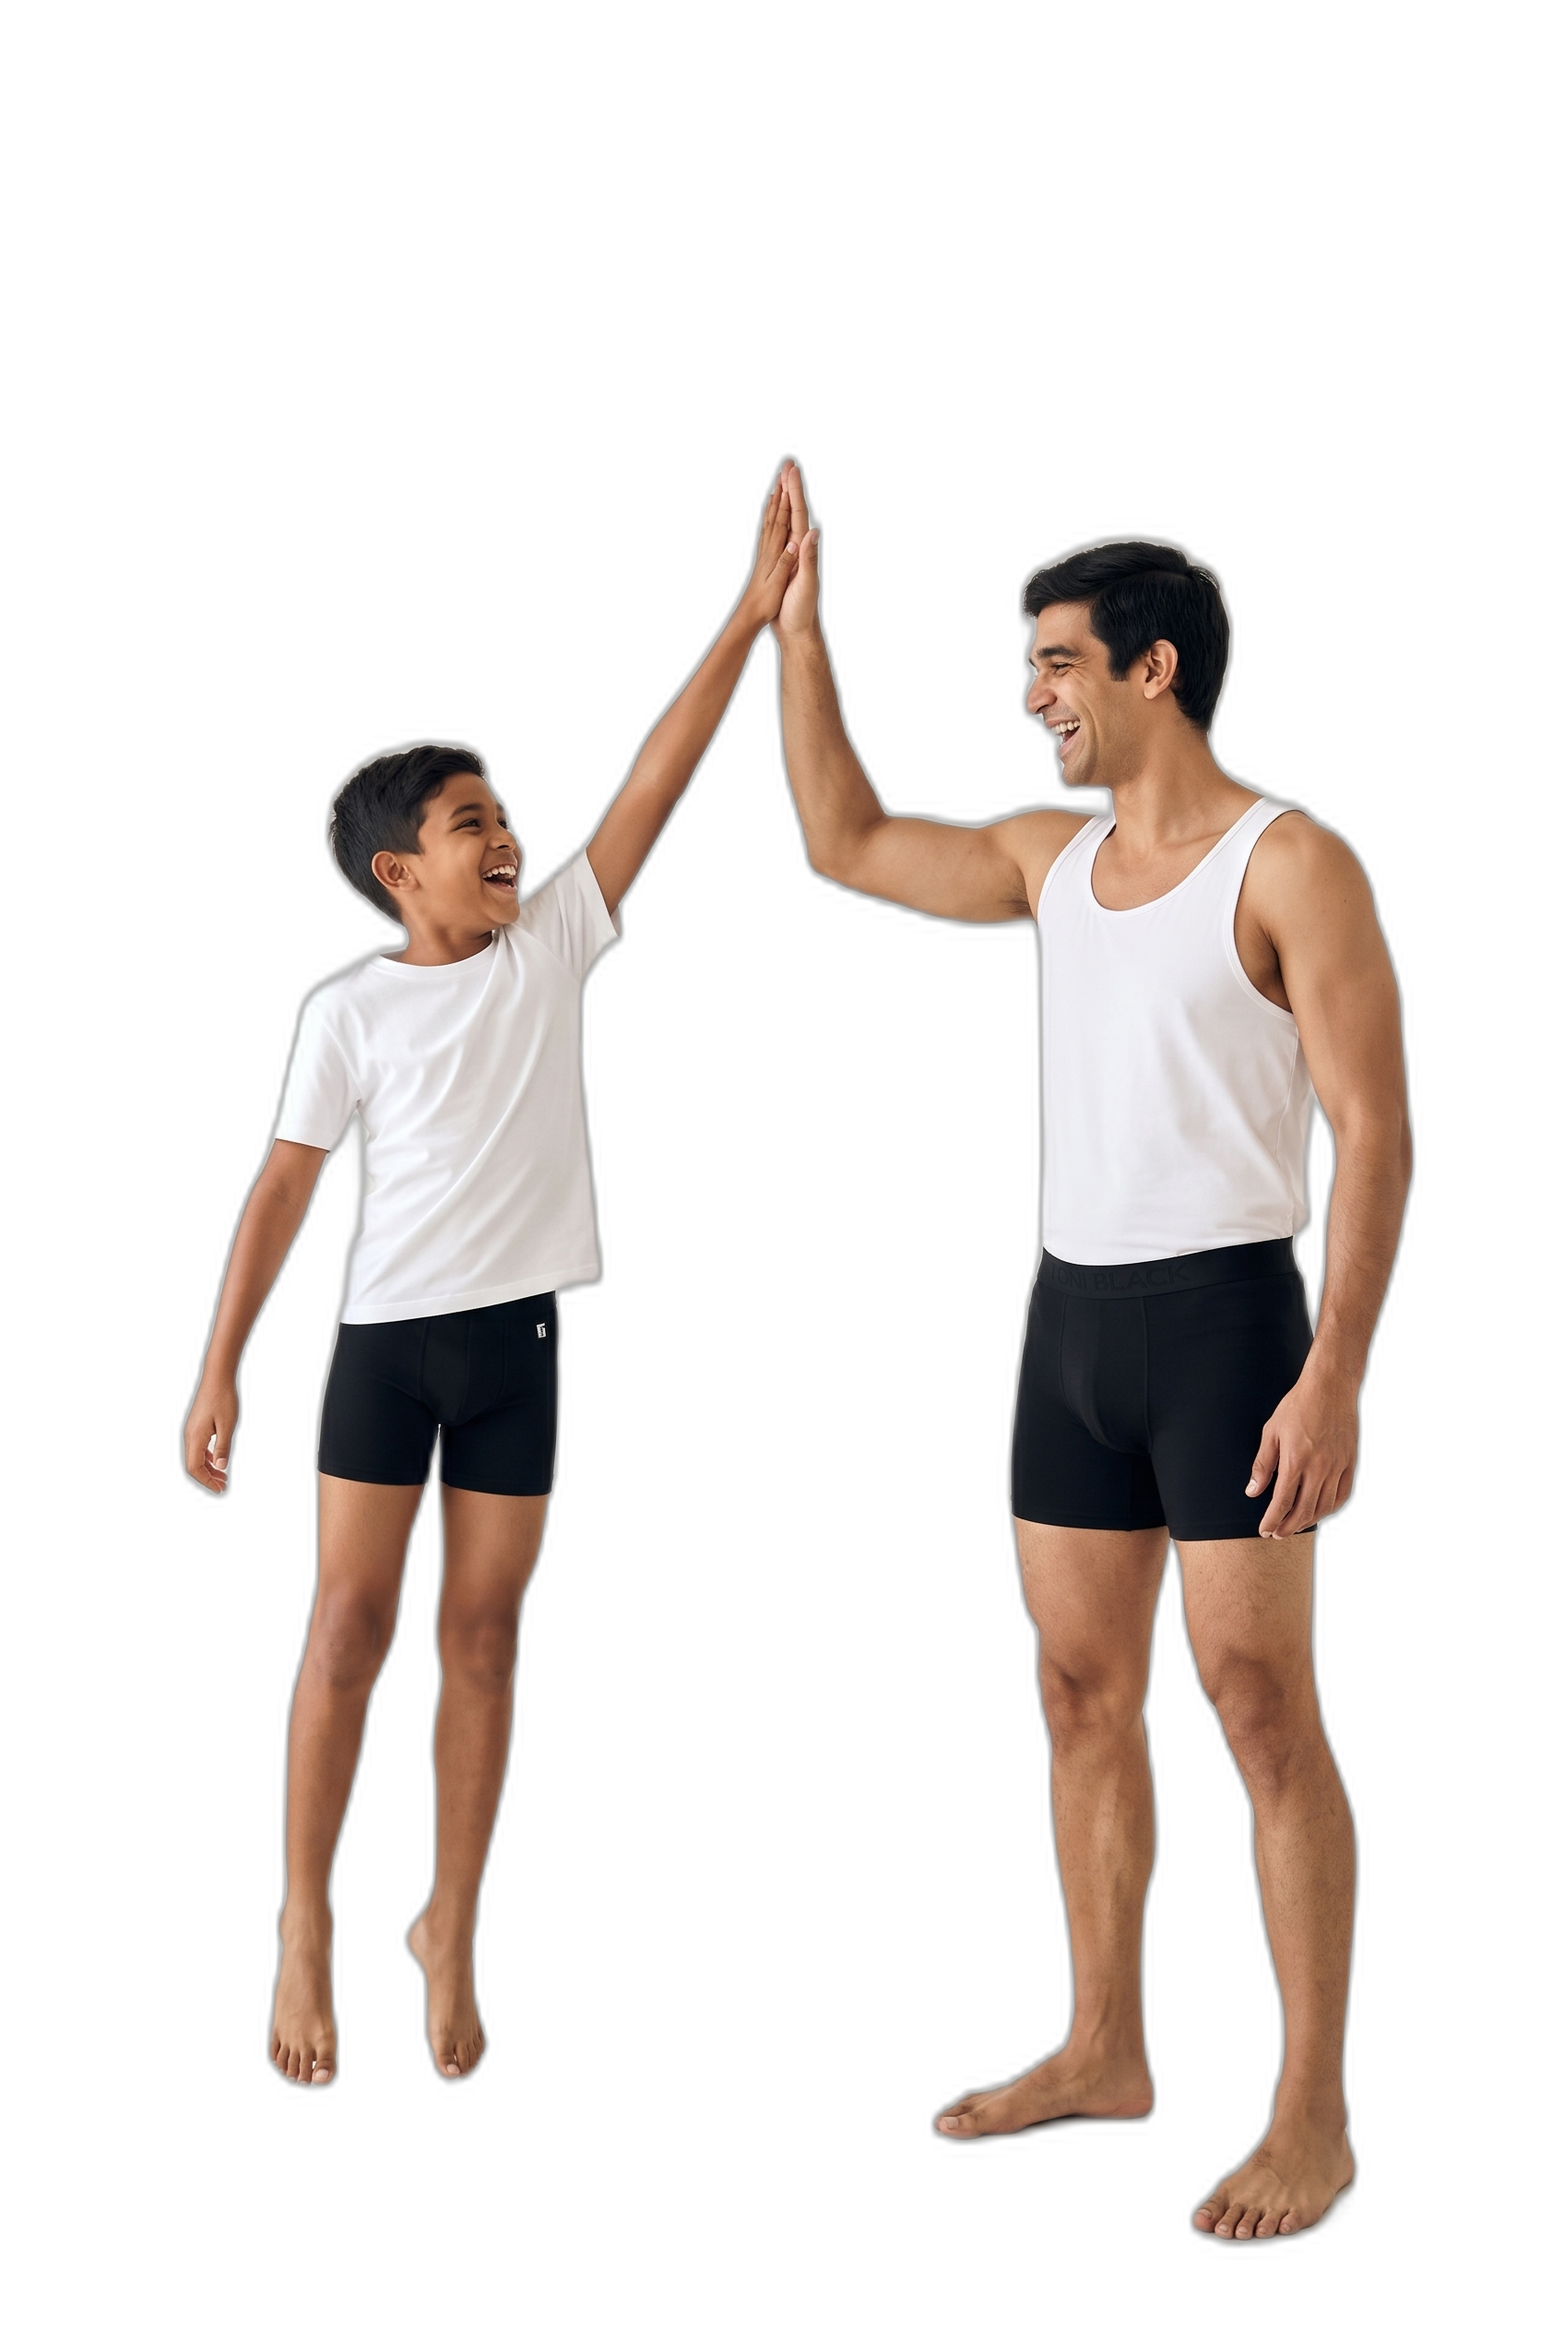
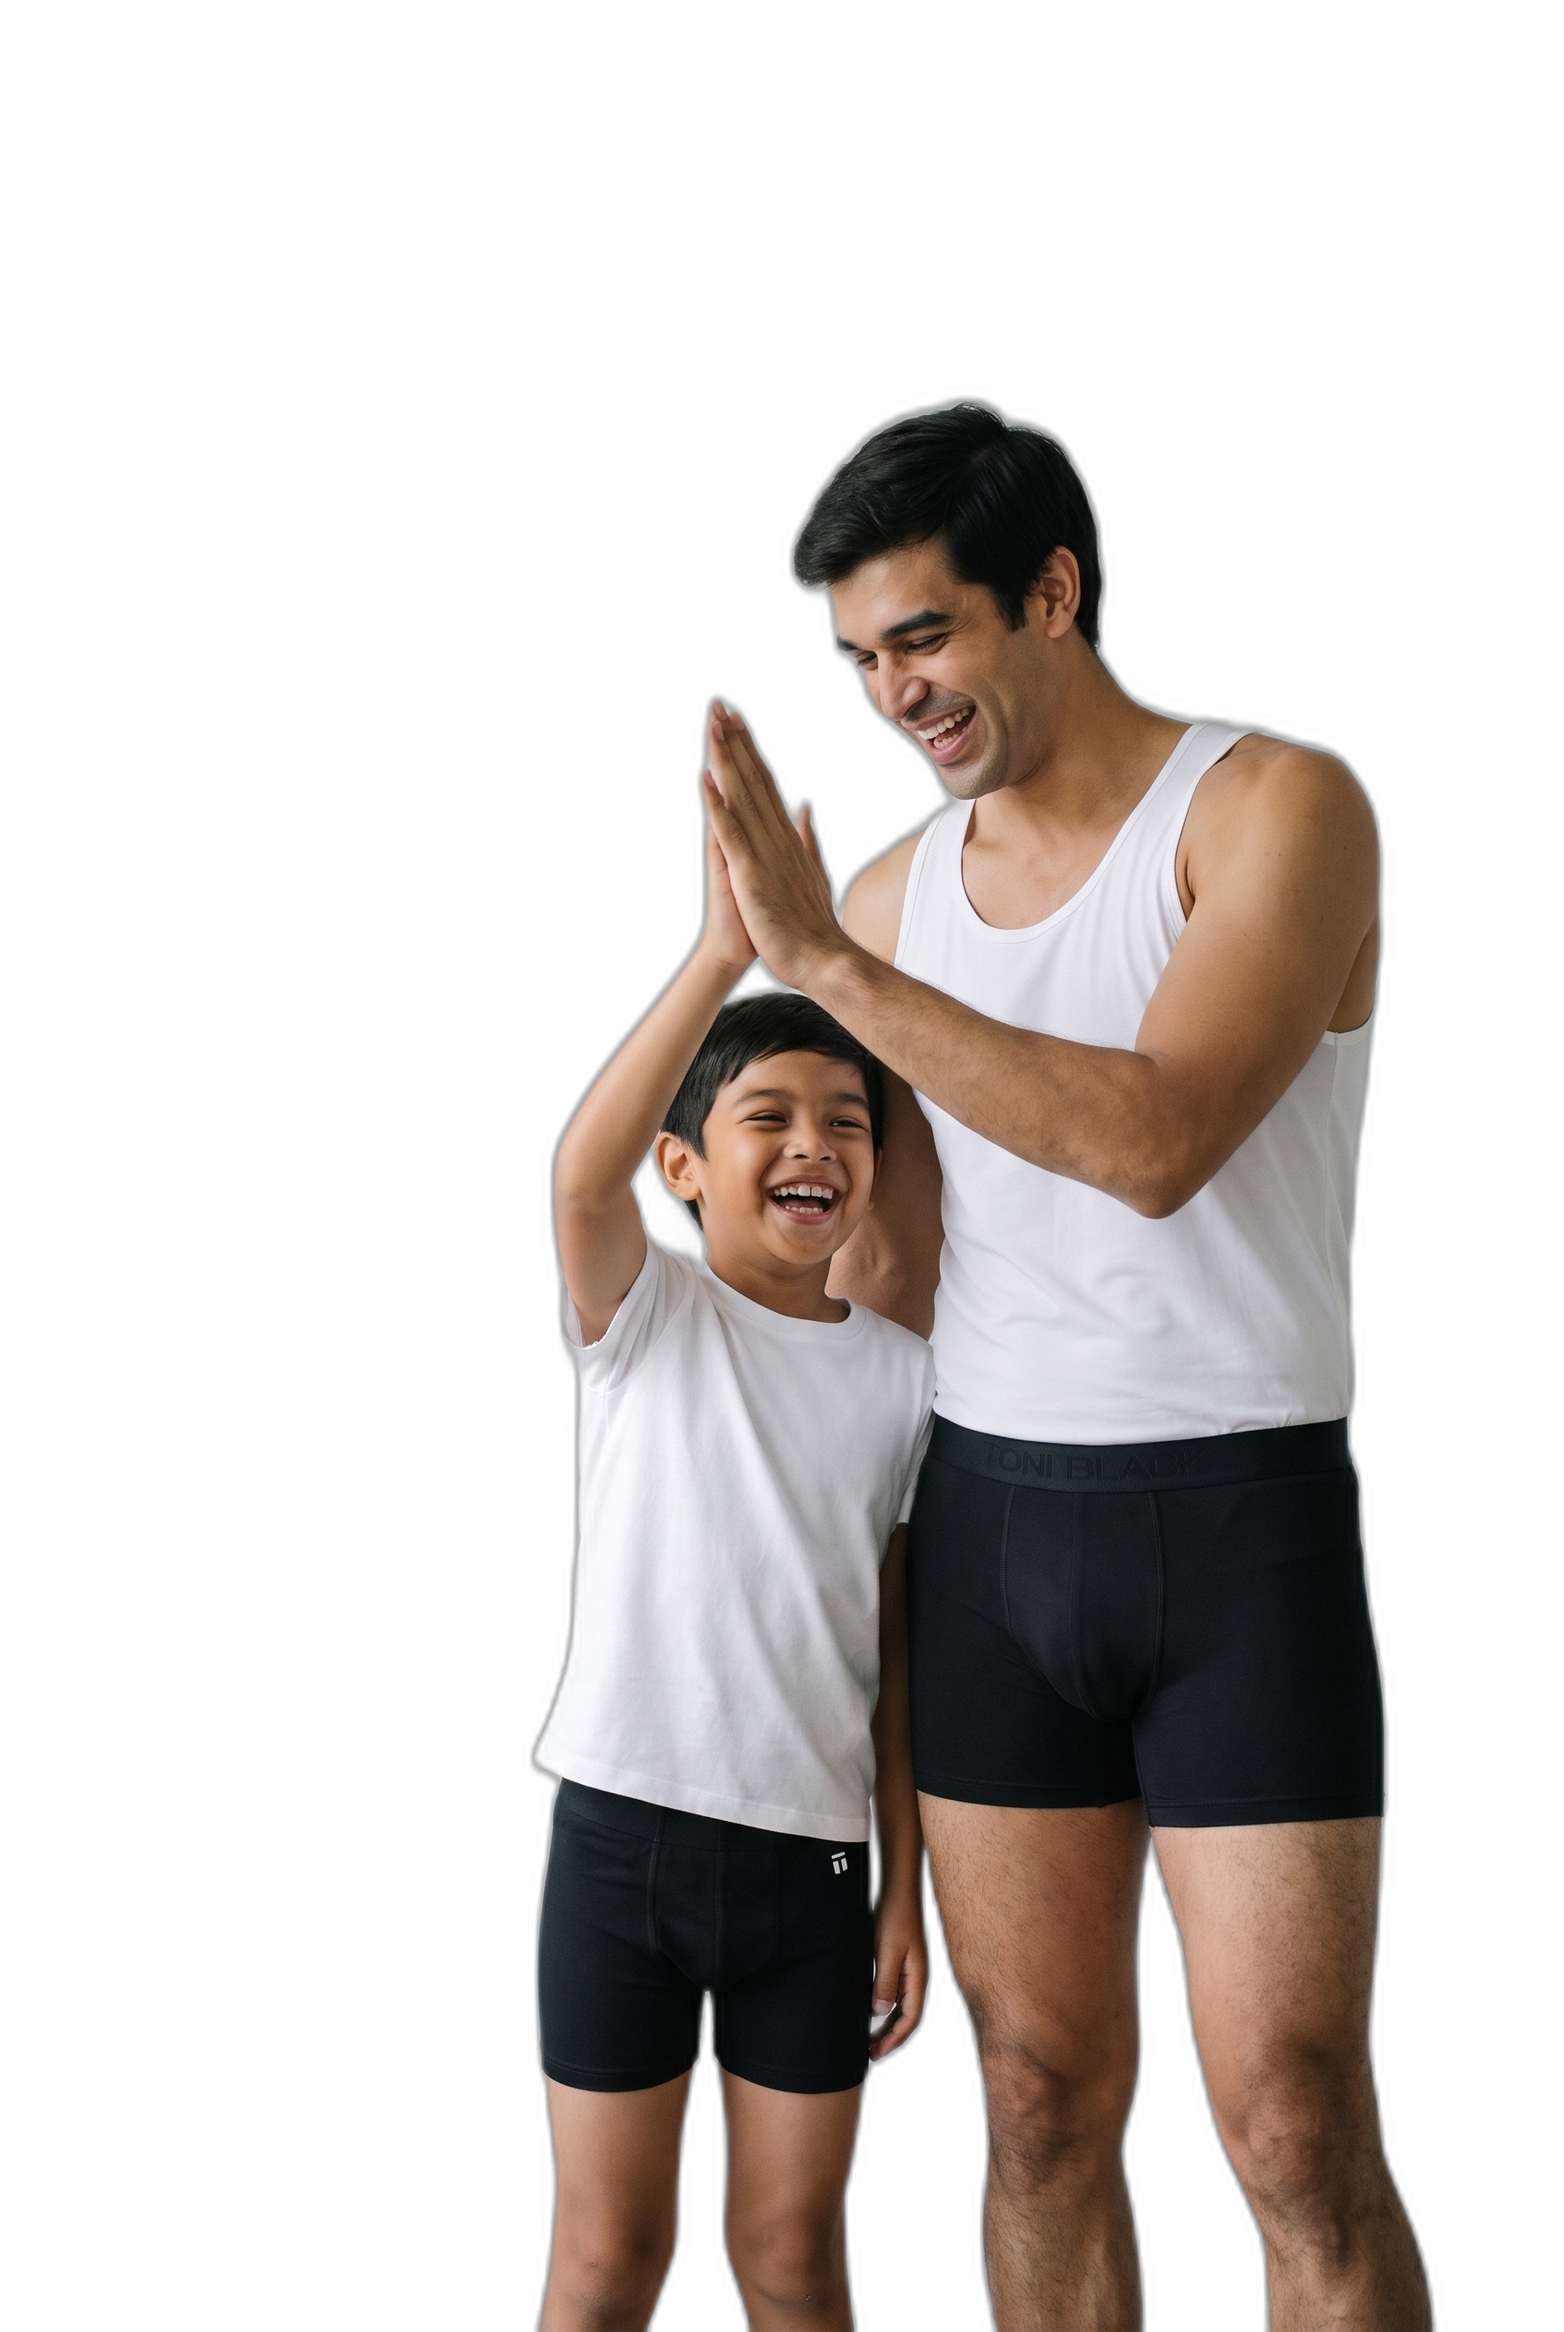
Him and Him v4: compact pair, child proportions, knee framing, plain wall
Claude-Session: https://claude.ai/code/session_01D9RBu3wL2qzNxzBzcGFuRs

diff --git a/banner-him-and-him-toni-black/scripts/compose_himhim5.py b/banner-him-and-him-toni-black/scripts/compose_himhim5.py
@@ -1,0 +1,29 @@
+"""'Made For Him and Him' v4: photo full-bleed (knee framing, plain wall), type in the empty left third."""
+import sys, numpy as np
+from PIL import Image, ImageDraw, ImageFilter
+from scipy.ndimage import binary_dilation
+sys.path.insert(1,"/home/user/Dom-Manipulation/banner-bau-toni-black/scripts")
+from logo import make_logo
+from compose_himhim import tracked, tw, cb, font, fit
+from compose_himhim3 import header, hero, offer
+import grade as G
+C282=(40,40,40)
+def graded(path):
+    im=np.asarray(Image.open(path).convert("RGB")).astype(np.float64); lab=G.srgb_to_lab(im)
+    L=np.clip(lab[...,0]/100,0,1); Lc=np.clip(0.5+(L-0.5)*1.10-0.02,0,1); lab[...,0]=Lc*100; lab[...,1:]*=0.88
+    lab[...,2]-=3.0*np.clip((Lc-0.6)/0.4,0,1); return Image.fromarray(G.lab_to_srgb(lab).astype("uint8"))
+def build(out,W=1080,H=1620,M=65,clear=40,head_y=150,hero_gap=60):
+    src=graded("gen/himhim_d_0.png"); s=max(W/src.width,H/src.height); src=src.resize((int(src.width*s+0.5),int(src.height*s+0.5)),Image.LANCZOS)
+    ox=(src.width-W)//2; oy=(src.height-H)//2; cv=src.crop((ox,oy,ox+W,oy+H)); d=ImageDraw.Draw(cv)
+    a=Image.open("gen/himhim_d_cutout.png").split()[3].resize(src.size,Image.LANCZOS).crop((ox,oy,ox+W,oy+H)); subj=np.asarray(a)>128
+    free=binary_dilation(subj,iterations=clear)
+    # widest text field that clears the figures in the header band and in the hero band
+    def field(y0,y1): cols=np.where(free[y0:y1].any(0))[0]; return (cols.min() if len(cols) else W)-M
+    lg=make_logo(C282,8); lw=320; lg=lg.resize((lw,int(lg.height*lw/lg.width)),Image.LANCZOS); cv.paste(lg,((W-lw)//2,56),lg)
+    hw=min(760,field(head_y,head_y+260)); hb,hz=header(d,M,head_y,hw)
+    numw=min(int(760*0.6),hw,field(hb+hero_gap,hb+hero_gap+300)); hero_b=hero(d,M,hb+hero_gap,numw)
+    ob,orx=offer(d,M,H-M-20,22,60,24)
+    txt=np.abs(np.asarray(cv.convert("L")).astype(int)-np.asarray(src.crop((ox,oy,ox+W,oy+H)).convert("L")).astype(int))>40
+    ys,xs=np.where(subj); print(f"figures x {xs.min()}-{xs.max()} ({(xs.max()-xs.min())/W:.0%} W) y {ys.min()}-{ys.max()} ({(ys.max()-ys.min())/H:.0%} H) | header {hz}px width {hw} | numeral width {numw} ends {hero_b} | offer {ob}-{H-M-20} right {int(orx)} | type within {clear}px of figures: {int((txt&free).sum())}")
+    cv.save(out,quality=94,optimize=True); return cv
+if __name__=="__main__": build("out/himhim5_23.jpg")

diff --git a/banner-him-and-him-toni-black/README.md b/banner-him-and-him-toni-black/README.md
@@ -17,3 +17,6 @@ Hierarchy by size: number, header, kicker, benefits, terms. Groups separated by 
 ## Pipeline
 1. `prompts/prompt_himhim.txt`, Nano Banana Pro, 2:3, 2K. References in order: pose, model, men's boxer brief (`6a.png`), singlet (`TNB 5 gm.jpg`), kids boxer (`Boxer anak/2.png`), BAU graded photo (look). One generation, 18 credits.
 2. `scripts/compose_himhim3.py` (needs `gen/himhim_a_0.png`, `gen/himhim_a_cutout.png` and `fonts/static/`; imports helpers from `compose_himhim.py`): global BAU grade, rebuilt wall, cut-out figures, type.
+
+## v4 (current 2:3 final, `scripts/compose_himhim5.py`)
+New photo (`prompts/prompt_himhim4.txt`, generated without the earlier photo as a reference so the composition could change): the pair compact and side by side, the boy 9 years old with a child's proportions, framed at the knees, plain even light-grey wall with no floor line. The photo runs full-bleed; the figures fill 58% of the width and 83% of the height, right of centre. Type fitted to the empty left third: header 51 px (443 px wide), `25%` at 380 px (60% of the previous 760 px, never wider than the header), offer block bottom-left. Every glyph keeps 40 px from the figures (checked against the cutout). `prompts/prompt_himhim3.txt` was a first attempt that kept the old photo as a reference and returned the old composition; not used. The 1:1 file is still v3.
